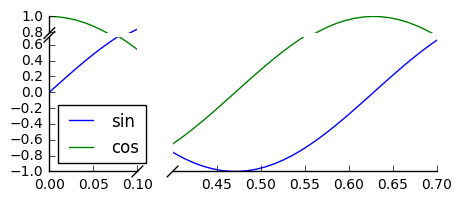
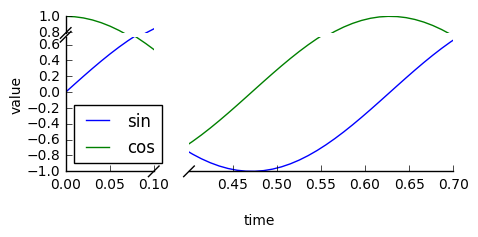
add to README

diff --git a/README.md b/README.md
@@ -2,16 +2,35 @@
 
 ![brokenaxes logo. Reference: http://www.brianhensley.net/2012/02/python-controlling-spi-bus-on.html](broken_python_snake.png)
 
+brokenaxes makes matplotlib plots with breaks in the axes for showing data across a discontinuous range.
+
+## Installation
+```
+pip install brokenaxes
+```
+
+## Usage
 ```python
 import matplotlib.pyplot as plt
 from brokenaxes import brokenaxes
 import numpy as np
 
 fig = plt.figure(figsize=(5,2))
-bax = brokenaxes(xlims=((0,.1),(.4,.7)), ylims=((-1,.7),(.79,1)), hspace=.05)
+bax = brokenaxes(xlims=((0, .1), (.4, .7)), ylims=((-1, .7), (.79, 1)), hspace=.05)
 x = np.linspace(0, 1, 100)
 bax.plot(x, np.sin(10 * x), label='sin')
 bax.plot(x, np.cos(10 * x), label='cos')
 bax.legend(loc=3)
+bax.set_xlabel('time')
+bax.set_ylabel('value')
 ```
 ![example1](example1.png)
+
+### Features:
+* Break x and y axes.
+* Supports multiple breaks on a single axis.
+* Automatically scales axes according to relative ranges.
+* Plot multiple lines.
+* Legend with positioning relative to entire broken axes object
+* x and y label centered to entire x and y plot
+* Make brokenaxes object a subplot itself with subplot_spec from GridSpec.
